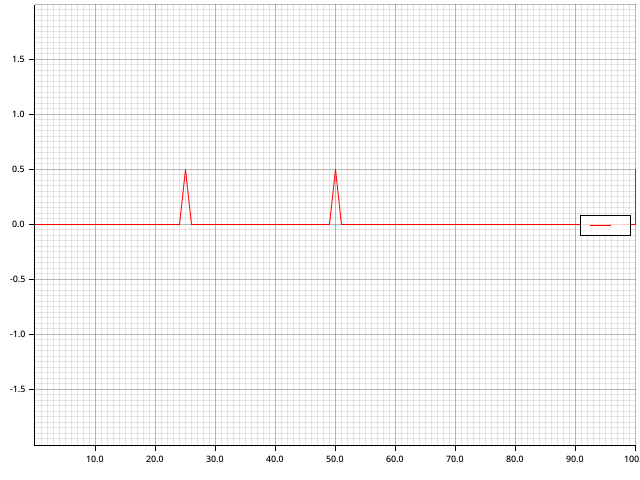
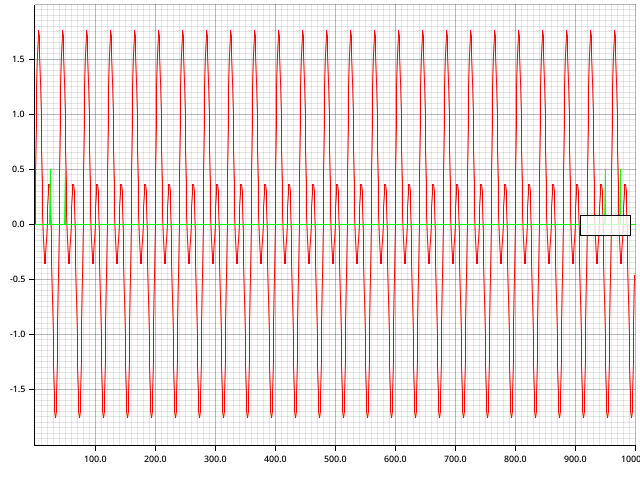
multiple lines

diff --git a/src/main.rs b/src/main.rs
@@ -34,10 +34,10 @@ fn main() {
         .map(|(i, x)| (i as f64, (x.re * x.re + x.im * x.im).sqrt() / 1_000.0))
         .collect();
 
-    plot(sequence);
+    plot(input_sequence, sequence);
 }
 
-fn plot(sequence: Vec<(f64, f64)>) {
+fn plot(sequence1: Vec<(f64, f64)>, sequence2: Vec<(f64, f64)>) {
     let root = BitMapBackend::new("out.png", (640, 480)).into_drawing_area();
 
     root.fill(&WHITE).unwrap();
@@ -46,16 +46,21 @@ fn plot(sequence: Vec<(f64, f64)>) {
         .margin(5)
         .x_label_area_size(30)
         .y_label_area_size(30)
-        .build_ranged(0.0..100.0, -2.0..2.0).unwrap();
+        .build_ranged(0.0..1_000.0, -2.0..2.0).unwrap();
 
     chart.configure_mesh().draw().unwrap();
 
     chart
         .draw_series(LineSeries::new(
-            sequence,
+            sequence1,
             &RED,
-        )).unwrap()
-        .legend(|(x, y)| PathElement::new(vec![(x, y), (x + 20, y)], &RED));
+        )).unwrap();
+
+    chart
+        .draw_series(LineSeries::new(
+            sequence2,
+            &GREEN,
+        )).unwrap();
 
     chart
         .configure_series_labels()
